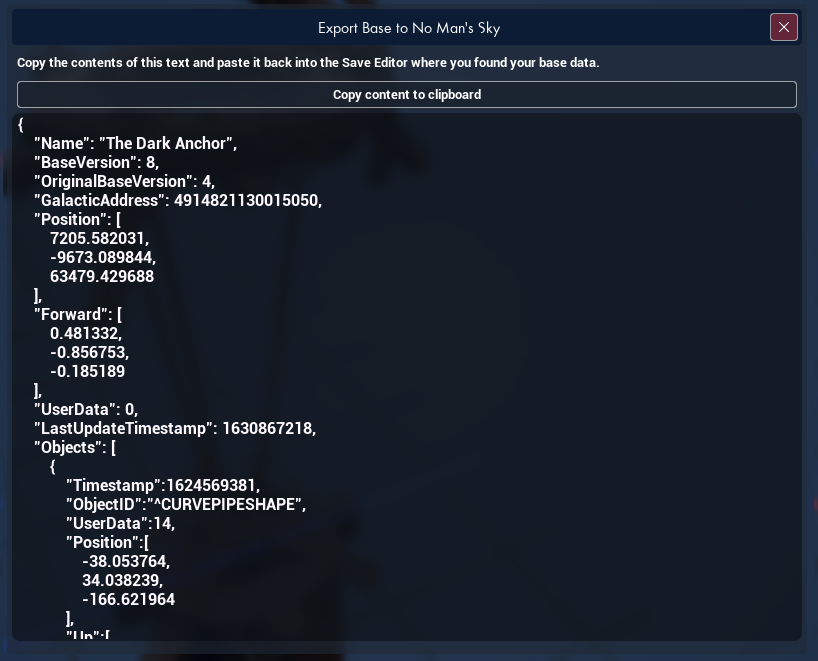
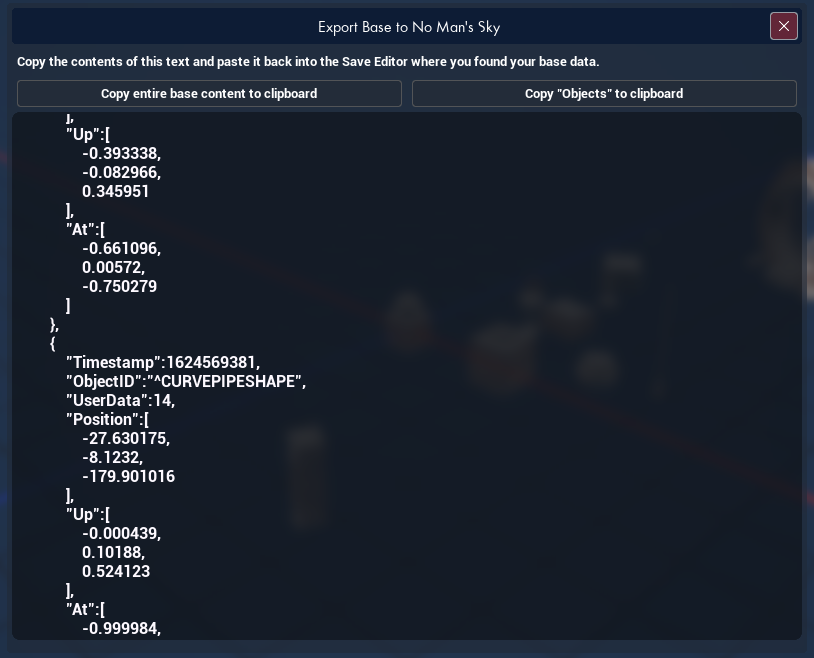
updated image and export text

diff --git a/content/no-mans-sky-base-builder-app/guides/exporting-to-nms.md b/content/no-mans-sky-base-builder-app/guides/exporting-to-nms.md
@@ -22,6 +22,8 @@ You will be presented with a new set of data that your base represents.
 
 You now need to Copy and Paste this text back into the same location you previously copied this base from. There is a button at the top for your convenience to copy all the text to your clipboard. Alternatively you can use the system hotkeys to Select all and Copy (Ctrl+A, Ctrl+C)
 
+In some cases you may just want to copy the "Objects" data and transfer this data, which can be more reliable for Corvette editing. For this there is also a dedicated button at the top of the panel.
+
 ![alt text](/images/nms-bba/guides/guide_8.png)
 
 After you've successfully pasted your new data into your save file, close the JSON editor and make sure you save the data applied to your save file (you may be prompted to save in your chosen Save Editor tool). 
